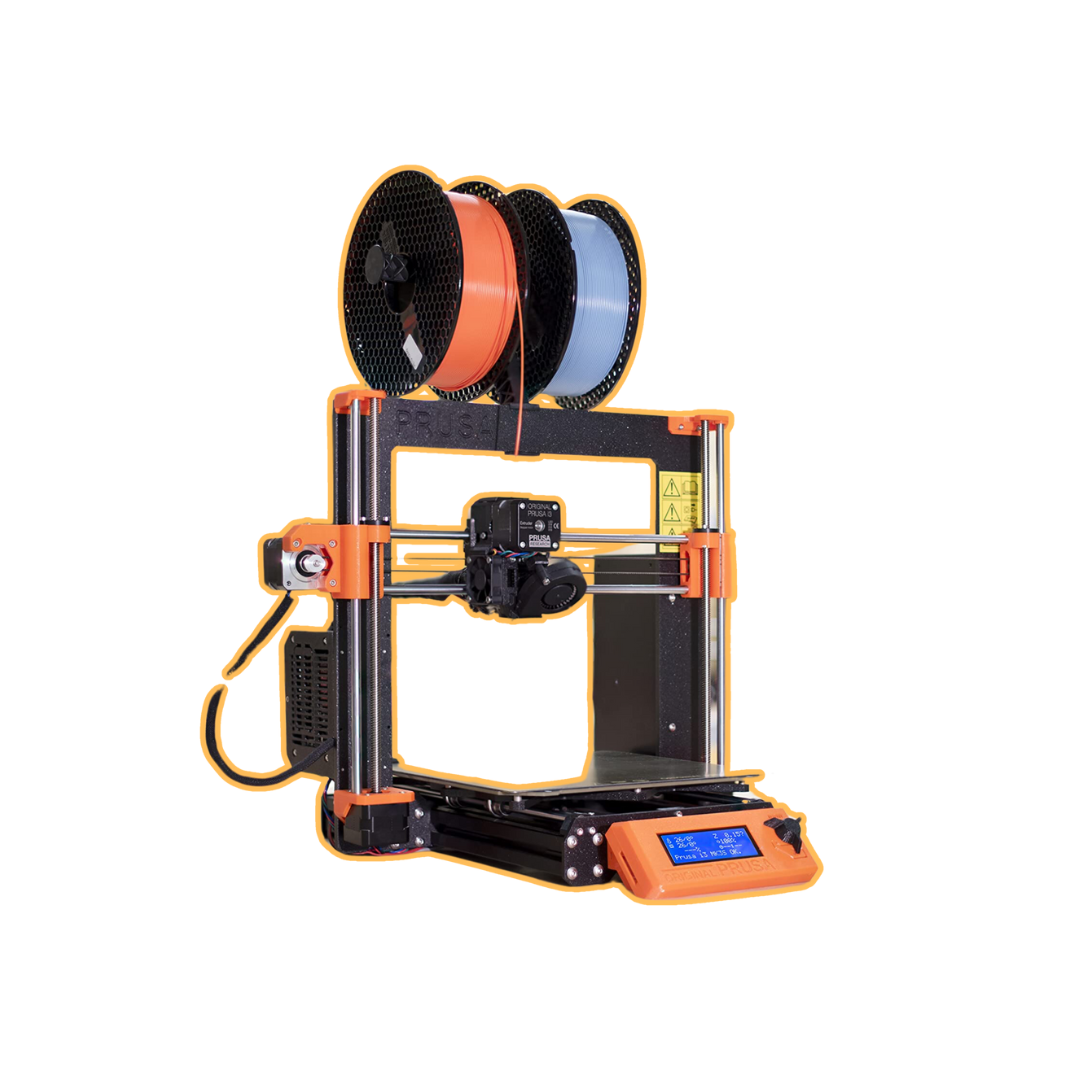
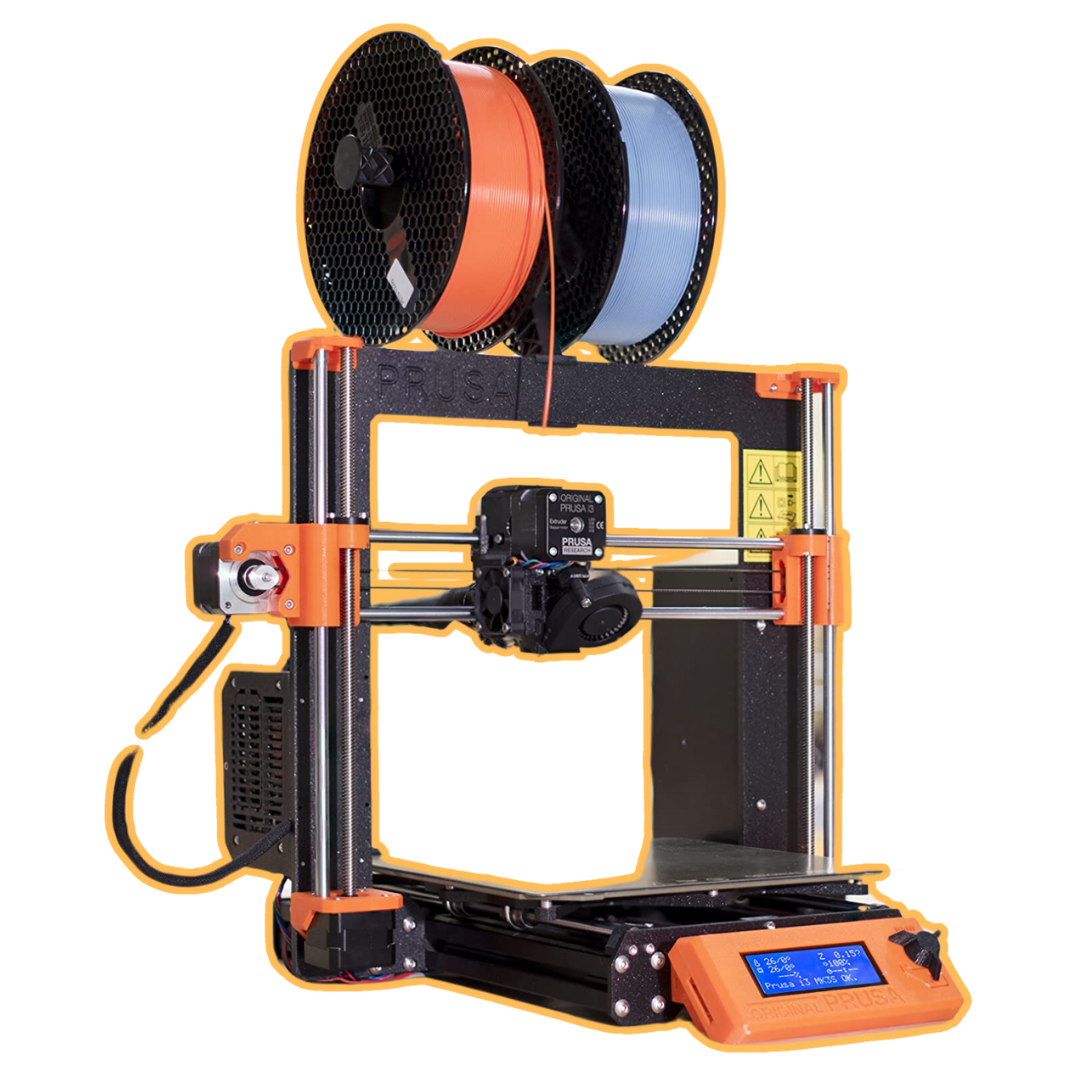
prøvet med nye ikoner i kurser

diff --git a/courses.html b/courses.html
@@ -168,7 +168,7 @@
                     </ul>
                 </div>
                 <div class="learn-more-image">
-                    <img src="images/icons/3d-print.png">
+                    <img src="images/kurser-photos/laserskærer.png">
                 </div>
             </div>
             <div class="learn-more-container left" id="print">
@@ -188,7 +188,7 @@
 
                 </div>
                 <div class="learn-more-image">
-                    <img src="images/icons/3d-print.png">
+                    <img src="images/kurser-photos/laserskærer.png">
                 </div>
             </div>
             <div class="learn-more-container" id="plakat">
@@ -209,7 +209,7 @@
 
                 </div>
                 <div class="learn-more-image">
-                    <img src="images/icons/3d-print.png">
+                    <img src="images/kurser-photos/plakat.png">
                 </div>
             </div>
         </section>

diff --git a/css/courses.css b/css/courses.css
@@ -196,9 +196,9 @@ main {
 }
 
 .learn-more-image img {
-    width: 100%;
-    height: 100%;
-    border-radius: 40px;
+    width: 700px;
+    height: 700px;
+    align-items: center;
 }
 
 .badges-section {
